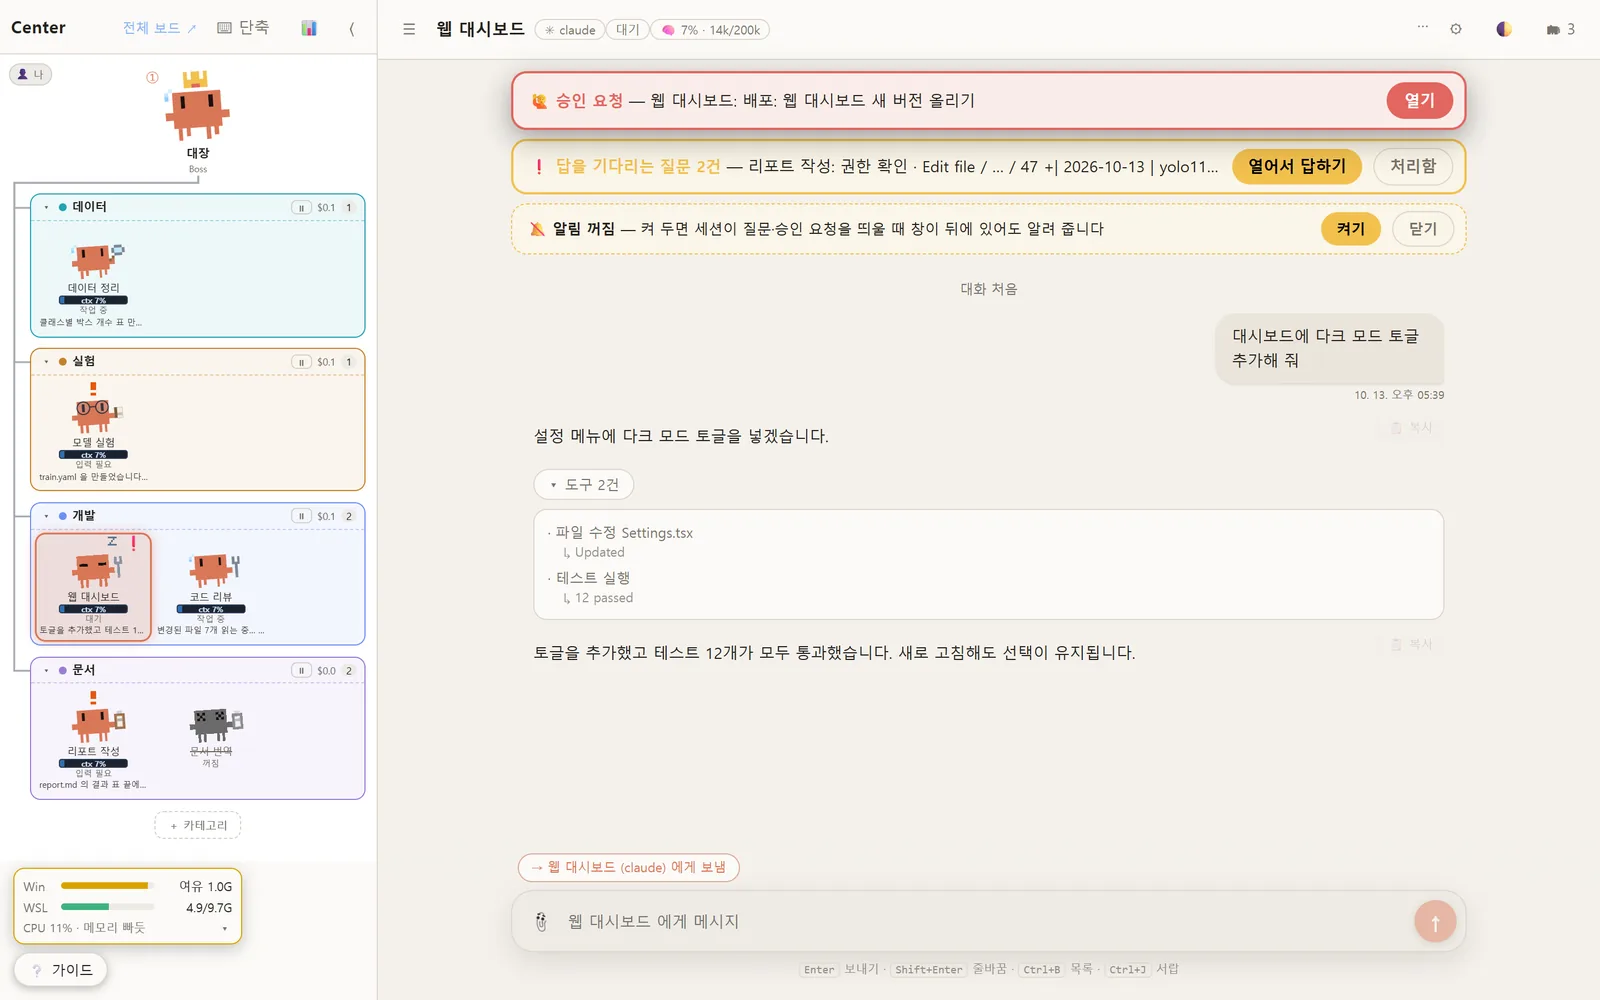
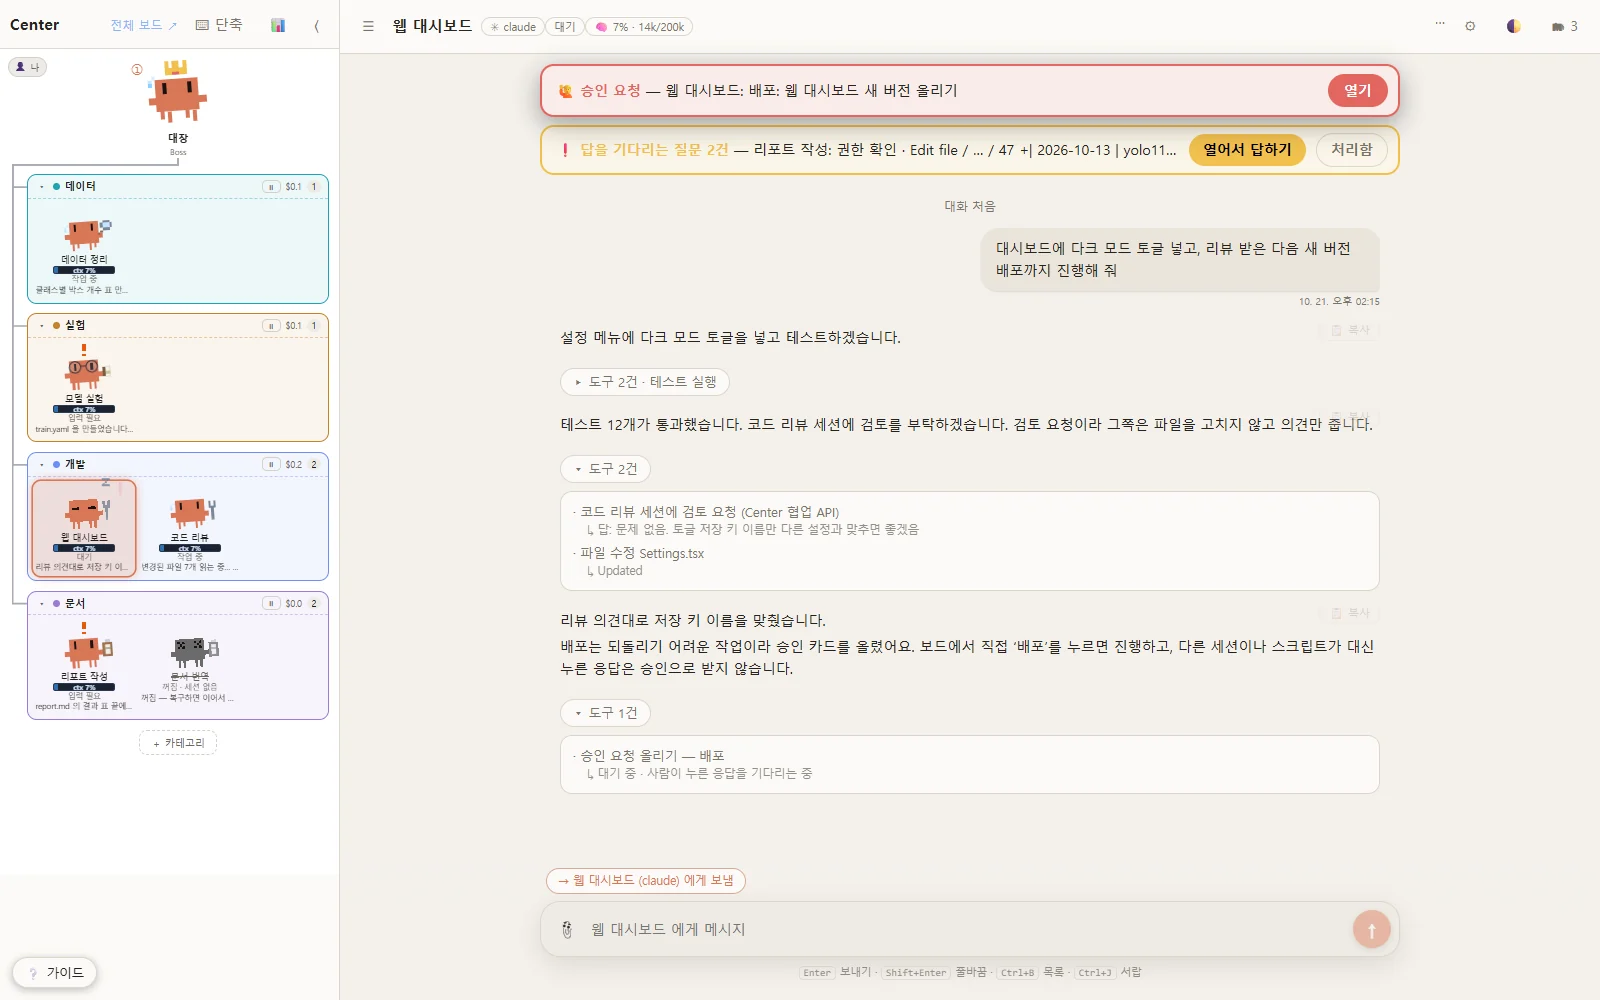
Center: 대화창을 대표 화면으로, 기능 목록 대신 핵심 다섯 가지·터진 것 → 막은 것, 3주 숫자로 갱신
- 대화창 다시 촬영(지시 → 코드 리뷰 세션 검토 요청 → 배포 승인 카드, 격리 시험판·데모 세션)
- 숫자: 2026.09.30~10.21 지시 444·협업 62·승인 카드 98(사람 75)·관리 세션 15, 규모 백엔드 약 7,600줄·API 약 75개
- site.css 끝에 .kp(한 줄 제목 + 한 줄 근거) 목록, 메인 목록·이력의 Center 문구 갱신

diff --git a/projects/center/index.html b/projects/center/index.html
@@ -36,162 +36,136 @@
   </div>
 
   <p class="pitch">
-    Claude Code · Codex 같은 AI 코딩 에이전트 세션 10여 개를 동시에 돌리면서,
-    <strong>어느 세션이 무엇을 하고 어느 세션이 사람의 답을 기다리는지</strong>를 한 화면에서 보고 지시하려고 만든 웹앱입니다.
-    클릭 한 번으로 세션을 다시 여는 런처에서 시작해 웹 터미널 타일 뷰를 거쳐 지휘 보드로 키웠습니다.
+    Claude Code · Codex 세션 10여 개를 한 화면에서 굴리는 지휘 보드.
+    <strong>사람이 판단할 일만 사람에게 올라오고</strong>, 나머지는 세션끼리 묻고 맡깁니다.
   </p>
 
-  <dl class="factsheet">
-    <dt>기간</dt>
-    <dd>2026.08.26 런처 → 08.27 타일 뷰 → 09.30 지휘 보드 → 진행 중</dd>
-    <dt>형태</dt>
-    <dd>Windows · WSL에서 도는 로컬 웹앱 — Python 표준 라이브러리 백엔드(약 5,500줄, API 약 50개), 보드와 대화창 두 화면, tmux로 세션 유지</dd>
-    <dt>역할</dt>
-    <dd>1인 개발 — 설계, 백엔드 · 프런트 구현, Windows 설치기</dd>
-    <dt>기술</dt>
-    <dd>Python · tmux · WSL · 웹 터미널 · Slurm 연동 · 데스크톱 알림</dd>
-  </dl>
+  <figure class="shot heroshot">
+    <a href="/assets/center/chat.webp" title="원본 크기로 보기"><img src="/assets/center/chat.webp" width="1600" height="1000" decoding="async" fetchpriority="high"
+      alt="Center 대화창. 웹 대시보드 세션이 다크 모드 토글을 넣고 테스트한 뒤, 코드 리뷰 세션에 검토를 요청해 받은 답과 배포 승인 요청을 올린 기록이 보이고, 위쪽에 승인 요청과 답을 기다리는 질문 띠가 있다"></a>
+    <figcaption><b>지시 하나가 흘러가는 모습</b>“리뷰 받고 배포까지” → 세션이 코드 리뷰 세션에 검토를 부탁하고(협업 API) → 배포는 승인 카드로 사람에게 넘깁니다. 위쪽 띠에 승인 요청과 답을 기다리는 질문이 모입니다. 운영과 분리한 시험판에서 데모 세션(모델 호출 없음)으로 찍었습니다.</figcaption>
+  </figure>
 
-  <div class="stats three">
+  <div class="stats">
     <div class="stat">
-      <span class="k">세션</span>
-      <span class="v">77<em> 개</em></span>
-      <span class="d">지휘 보드 첫 14일(09.30 ~ 10.13)에 만든 세션</span>
+      <span class="k">지시</span>
+      <span class="v">444<em> 건</em></span>
+      <span class="d">대화창에서 보낸 지시 · 대장 경유 186</span>
     </div>
     <div class="stat">
-      <span class="k">지시 전달</span>
-      <span class="v">845<em> 건</em></span>
-      <span class="d">총괄 세션을 거친 지시 113건은 전부 처리</span>
+      <span class="k">세션 간 협업</span>
+      <span class="v">62<em> 건</em></span>
+      <span class="d">검토 · 위임 요청</span>
     </div>
     <div class="stat">
       <span class="k">승인 카드</span>
-      <span class="v">67<em> 건</em></span>
-      <span class="d">그중 사람이 직접 누른 응답 54건</span>
+      <span class="v">98<em> 건</em></span>
+      <span class="d">사람이 직접 누른 승인 75</span>
+    </div>
+    <div class="stat">
+      <span class="k">관리 중 세션</span>
+      <span class="v">15<em> 개</em></span>
+      <span class="d">2026.10.21 기준</span>
     </div>
   </div>
+  <p class="media-note">숫자는 지휘 보드를 연 2026.09.30부터 10.21까지 3주.</p>
+
+  <dl class="factsheet">
+    <dt>흐름</dt>
+    <dd>08.26 런처 → 08.27 웹 터미널 타일 뷰 → 09.30 지휘 보드 → 10.02 승인 카드 → 10.16 자동 절전 → 진행 중</dd>
+    <dt>형태</dt>
+    <dd>Windows · WSL 로컬 웹앱, tmux로 세션 유지, 보드와 대화창 두 화면</dd>
+    <dt>규모</dt>
+    <dd>백엔드 Python 약 7,600줄(표준 라이브러리) · 화면 약 3,600줄 · API 약 75개 (10.21)</dd>
+    <dt>역할</dt>
+    <dd>1인 개발 — 설계 · 구현 · Windows 설치기</dd>
+  </dl>
 </section>
 
-<!-- ================= 문제 정의 ================= -->
+<!-- ================= 핵심 ================= -->
 <section class="sec wrap">
   <div class="sechead">
-    <span class="eyebrow">배경</span>
-    <h2>세션이 열 개를 넘으면 생기는 일</h2>
-    <p class="lede">
-      에이전트 하나는 터미널 하나로 충분했지만, 업무 · 실험 · 측정을 나눠 동시에 돌리자
-      <strong>사람이 병목</strong>이 됐습니다.
-    </p>
+    <span class="eyebrow">핵심</span>
+    <h2>세션이 열 개를 넘으면 사람이 병목 — 그래서 정한 다섯 가지</h2>
   </div>
-
-  <div class="blocks">
-    <div class="block">
-      <h4><span class="bn">01 &mdash;</span> 무엇이 불편했나</h4>
-      <ul class="blist">
-        <li><span><b>누가 기다리는지 모름</b> — 어느 세션이 권한 승인이나 선택을 기다리는지 일일이 창을 돌며 확인해야 했습니다.</span></li>
-        <li><span><b>무엇을 하는지 모름</b> — 세션마다 지금 하는 일과 언제 멈췄는지를 알기 어려웠습니다.</span></li>
-        <li><span><b>다시 열기가 번거로움</b> — 창을 닫거나 재부팅하면 세션 ID를 찾아 붙여 다시 열어야 했습니다.</span></li>
-      </ul>
-    </div>
-  </div>
+  <ol class="kp">
+    <li>
+      <span class="n">01</span>
+      <div><span class="h">사람이 할 일만 위로 올린다</span>
+        <span class="w">터미널 화면에서 권한 · 선택 질문을 감지해 처리함과 데스크톱 알림으로. 창을 돌며 누가 기다리는지 찾지 않는다.</span></div>
+      <span class="m">처리함 · 알림</span>
+    </li>
+    <li>
+      <span class="n">02</span>
+      <div><span class="h">승인은 사람이 누른 클릭만</span>
+        <span class="w">삭제 · 배포 · 재시작은 승인 카드로. 스크립트 · 자동화 응답은 ‘시험 응답’으로 따로 기록해, 에이전트가 스스로 승인한 것처럼 꾸밀 수 없다.</span></div>
+      <span class="m">98건 중 <em>사람</em> 75</span>
+    </li>
+    <li>
+      <span class="n">03</span>
+      <div><span class="h">세션끼리 묻고 맡기되, 서로 기다리다 멈추지 않게</span>
+        <span class="w">의견만 구하는 검토와 일을 맡기는 위임을 나눈 협업 API. 상대당 동시 1건, 상대가 내 답을 기다리는 중이면 새 요청은 바로 거절, 시간 제한.</span></div>
+      <span class="m">협업 62건</span>
+    </li>
+    <li>
+      <span class="n">04</span>
+      <div><span class="h">위험한 입력은 보내기 전에 막는다</span>
+        <span class="w">로그인 · 권한 우회 명령과 한 글자 키는 전송 불가, 다른 세션의 권한 질문에 대신 답하기 금지. 자원마다 주인을 정해, 주인 아닌 세션에 일을 맡기면 경고.</span></div>
+      <span class="m">주인 표</span>
+    </li>
+    <li>
+      <span class="n">05</span>
+      <div><span class="h">메모리가 빠듯해도 세션을 여러 개</span>
+        <span class="w">오래 쉰 세션은 대화를 남긴 채 절전, 말을 걸면 깨워서 전달. 작업 중이거나 예약이 걸린 세션은 끄지 않는다. 재부팅해도 이어서 복구.</span></div>
+      <span class="m">관리 중 15개</span>
+    </li>
+  </ol>
 </section>
 
-<!-- ================= 본문 ================= -->
+<!-- ================= 실사용 ================= -->
 <section class="sec wrap">
   <div class="sechead">
-    <span class="eyebrow">작업</span>
-    <h2>기능 → 설계 결정 → 개선 이력</h2>
+    <span class="eyebrow">실사용</span>
+    <h2>터진 것 → 막은 것</h2>
   </div>
-
-  <div class="blocks">
-
-    <div class="block">
-      <h4><span class="bn">02 &mdash;</span> 주요 기능</h4>
-      <ul class="blist">
-        <li><span><b>세션 보드</b> — 카테고리별 픽셀 캐릭터가 상태(작업 중 · 대기 · 입력 필요 · 꺼짐)를 표정으로 보여 줍니다. 여러 개를 골라 한꺼번에 지시 · 이동 · 종료합니다.</span></li>
-        <li><span><b>처리함</b> — 터미널 화면에서 권한 · 선택 · 폴더 신뢰 · 턴 끝 질문을 감지해 버튼으로 답하게 하고, 데스크톱 알림을 띄웁니다.</span></li>
-        <li><span><b>총괄 세션 · 지시함</b> — 총괄 에이전트가 사용자 지시를 담당 세션에 전달하고, 연결이 끊기면 경고합니다.</span></li>
-        <li><span><b>세션 간 협업 API</b> — 의견만 구하는 검토와 일을 맡기는 위임을 나누고, 공용 자원은 주인 세션 하나만 바꿀 수 있게 했습니다.</span></li>
-        <li><span><b>지식 증류 · 주입</b> — 세션을 닫기 전에 인수인계 카드로 증류하고, 새 세션을 열 때 골라 넣습니다.</span></li>
-        <li><span><b>운영</b> — 재부팅 후 세션 복구, 자동 재기동 감시, GPU 잡(Slurm) 배지, 메모리 막대와 정리 추천, 사용량 대시보드, 원격 서버(ssh) 세션.</span></li>
-        <li><span><b>배포</b> — Windows 원클릭 설치기(11단계, 업데이트 모드). 배포판을 빌드할 때 개인정보 · 내부 주소 금지어를 검사합니다.</span></li>
-      </ul>
-    </div>
-
-    <div class="block">
-      <h4><span class="bn">03 &mdash;</span> 설계 결정 3가지</h4>
-
-      <p><b>① 위험한 동작은 사람이 누른 응답만 승인으로 인정</b></p>
-      <div class="pab" style="margin-top:10px">
-        <div><span class="tag">결정</span><p>삭제 · 배포 · 재시작이 필요하면 세션이 <b>승인 카드</b>를 올리고, 사람이 보드에서 직접 누른 응답만 승인으로 받습니다. 스크립트나 다른 세션이 대신 누른 응답은 승인으로 치지 않습니다.</p></div>
-        <div><span class="tag r">이유</span><p>에이전트가 여러 개일수록 "누군가 허락했겠지"라는 착각이 생기기 쉽습니다. 승인 출처를 기록에 남겨 구분했습니다.</p></div>
-      </div>
-
-      <p style="margin-top:22px"><b>② 바깥에서 들어온 글은 사람이 확인한 뒤에만 규칙으로</b></p>
-      <div class="pab" style="margin-top:10px">
-        <div><span class="tag">결정</span><p>웹에서 가져온 내용으로 만든 규칙 카드는 사람이 승인해야 다른 세션에 주입됩니다.</p></div>
-        <div><span class="tag r">이유</span><p>증류 · 주입 경로가 그대로 프롬프트 주입 경로가 될 수 있어서입니다.</p></div>
-      </div>
-
-      <p style="margin-top:22px"><b>③ 서로 기다리다 멈추지 않게</b></p>
-      <div class="pab" style="margin-top:10px">
-        <div><span class="tag">결정</span><p>A가 B에게 묻는 동안 B가 A에게 보낸 요청이 남아 있으면 새 요청을 즉시 돌려보내고, 알림만 필요한 요청은 답을 기다리지 않게 했습니다.</p></div>
-        <div><span class="tag r">이유</span><p>세션끼리 서로의 답을 기다리면 둘 다 시간 초과로 끝나는 교착이 실제로 생겼습니다.</p></div>
-      </div>
-    </div>
-
-    <div class="block">
-      <h4><span class="bn">04 &mdash;</span> 날짜별 개선</h4>
-      <ul class="blist">
-        <li><span><b>08.26</b> — 클릭 한 번 세션 재실행 런처</span></li>
-        <li><span><b>08.27</b> — 웹 터미널 타일 뷰</span></li>
-        <li><span><b>09.14</b> — Codex 세션 지원</span></li>
-        <li><span><b>09.18</b> — 세션 증류 → 지식 카드 주입</span></li>
-        <li><span><b>09.24</b> — tmux와 원격 제어로 세션 유지</span></li>
-        <li><span><b>09.30</b> — 지휘 보드: 처리함 · 사용량 · 복구 · Slurm · 예약</span></li>
-        <li><span><b>10.01</b> — 여러 엔진 · 협업 API · 대화창 · 자동 재기동</span></li>
-        <li><span><b>10.02</b> — 승인 카드 · 교착 방지</span></li>
-        <li><span><b>10.07</b> — Windows 설치기 · 가이드</span></li>
-        <li><span><b>10.08</b> — 다중 선택 · 메모리 막대 · 배포판과 운영 코드 통일 · 원격 세션</span></li>
-        <li><span><b>10.13</b> — 중복 실행 방지</span></li>
-      </ul>
-    </div>
-
-    <div class="block">
-      <h4><span class="bn">05 &mdash;</span> 쓰면서 나온 숫자 <span class="when">2026.09.30 ~ 10.13 · 14일</span></h4>
-      <ul class="blist">
-        <li><span><b>세션 77개</b> — 업무 21 · 측정 실험 47 · 시험 9</span></li>
-        <li><span><b>지시 전달 845건</b> — 총괄 세션을 거친 지시 113건은 전부 처리</span></li>
-        <li><span><b>승인 카드 67건</b> — 사람이 직접 누른 응답 54건</span></li>
-        <li><span><b>동시 작업 세션</b> — 평상시 최대 8개</span></li>
-      </ul>
-    </div>
-
-  </div>
+  <ol class="kp">
+    <li>
+      <span class="n">10.02</span>
+      <div><span class="h">두 세션이 서로의 답을 기다리다 둘 다 시간 초과</span>
+        <span class="w">→ 상대가 내 답을 기다리는 중이면 새 요청을 즉시 돌려보내고, 알림만 필요한 요청은 답을 기다리지 않게.</span></div>
+    </li>
+    <li>
+      <span class="n">10.16</span>
+      <div><span class="h">절전시킨 세션의 표시가 사라짐</span>
+        <span class="w">→ 끄는 몇 초 사이 화면들이 상태를 읽어 ‘살아 있음’으로 판단한 것. 끄는 동안 그 세션 기록을 잠그고, 끈 뒤 다시 확인.</span></div>
+    </li>
+    <li>
+      <span class="n">10.19</span>
+      <div><span class="h">대화창이 깜빡이고 스크롤이 위아래로 튐</span>
+        <span class="w">→ 측정으로 원인(다시 그릴 때 화면 밖 높이를 잊는 브라우저 최적화 설정)을 찾아 CSS 한 줄을 빼서 해결.</span></div>
+    </li>
+  </ol>
 </section>
 
 <!-- ================= MEDIA ================= -->
 <section class="sec wrap">
   <div class="sechead">
     <span class="eyebrow">화면</span>
-    <h2>화면</h2>
-    <p class="lede">업무 세션이 보이지 않도록 운영 중인 Center와 분리한 시험판(별도 홈 폴더 · tmux · 포트)에 데모 세션 6개만 띄워 촬영했습니다. 데모 세션은 Claude Code 화면 모양만 흉내 내고 모델은 부르지 않습니다.</p>
+    <h2>보드와 승인 카드</h2>
   </div>
   <div class="media">
-    <figure class="shot wide">
+    <figure class="shot">
       <a href="/assets/center/board.webp" title="원본 크기로 보기"><img src="/assets/center/board.webp" width="1600" height="1000" loading="lazy" decoding="async"
         alt="Center 세션 보드. 대장 아래 데이터 · 실험 · 개발 · 문서 카테고리가 있고, 세션마다 픽셀 캐릭터와 작업 중 · 입력 필요 · 대기 · 꺼짐 상태, 지금 하는 일이 보인다"></a>
-      <figcaption><b>세션 보드</b>카테고리마다 세션이 캐릭터로 서 있고, 표정과 아이콘으로 작업 중 · 입력 필요(!) · 대기(z) · 꺼짐이 구분됩니다. 위에는 승인 요청과 처리할 질문 수, 왼쪽 아래에는 메모리 막대, 아래에는 카테고리별 사용량이 붙습니다.</figcaption>
+      <figcaption><b>세션 보드</b>카테고리별 캐릭터의 표정 · 아이콘으로 작업 중 · 입력 필요(!) · 대기(z) · 꺼짐을 한눈에.</figcaption>
     </figure>
     <figure class="shot">
       <a href="/assets/center/approval.webp" title="원본 크기로 보기"><img src="/assets/center/approval.webp" width="1600" height="804" loading="lazy" decoding="async"
         alt="Center 승인 카드. 웹 대시보드 세션이 올린 ‘배포: 웹 대시보드 새 버전 올리기’ 요청에 배포와 보류 선택지가 있다"></a>
-      <figcaption><b>승인 카드</b>세션이 배포 승인을 요청하면 카드로 뜹니다. 사람이 이 카드에서 직접 누른 응답만 승인으로 세션에 전달됩니다.</figcaption>
-    </figure>
-    <figure class="shot">
-      <a href="/assets/center/chat.webp" title="원본 크기로 보기"><img src="/assets/center/chat.webp" width="1600" height="1000" loading="lazy" decoding="async"
-        alt="Center 대화창. 왼쪽에 축소 보드와 메모리 막대, 가운데에 웹 대시보드 세션의 대화와 펼친 도구 실행 내역, 위에 승인 요청과 답을 기다리는 질문 띠가 있다"></a>
-      <figcaption><b>대화창</b>왼쪽 보드에서 캐릭터를 누르면 그 세션의 대화가 열리고, 입력칸에 쓰면 그 세션에 전달됩니다. 승인 요청과 답을 기다리는 질문은 위쪽 띠로 모입니다.</figcaption>
+      <figcaption><b>승인 카드</b>세션이 올린 배포 요청. 여기서 사람이 직접 누른 응답만 승인으로 전달됩니다.</figcaption>
     </figure>
   </div>
+  <p class="media-note">세 화면 모두 업무 세션이 보이지 않게 운영 중인 Center와 분리한 시험판(별도 홈 폴더 · tmux · 포트)에서, Claude Code 화면 모양만 흉내 내는 데모 세션으로 찍었습니다.</p>
 </section>
 
 </main>

diff --git a/index.html b/index.html
@@ -137,7 +137,7 @@
     <a class="prow" href="/projects/center/">
       <span class="pn">07</span>
       <span class="pt">Center — AI 코딩 에이전트 지휘 보드</span>
-      <span class="pm">세션 10여 개를 한 화면에서</span>
+      <span class="pm">3주 지시 444 · 사람 승인 75</span>
       <span class="ps now">사용 중 · 2026.08 —</span>
     </a>
   </div>
@@ -439,7 +439,7 @@
   /* ---------- timeline ---------- */
   var TL = [
     { w: "2026.09", now: false, l: "/projects/rect-input/", t: "비정사각 입력 포즈 검출기 경량화", d: "16:9 웹캠용 YOLO11n 포즈 모델을 640×384 직사각 입력으로 재학습(커스텀 트레이너), 연산량 6.79→4.07 GFLOPs·CPU INT8 지연 −40%, AP50 손실 0.0065 이내" },
-    { w: "2026.08 ~ 진행 중", now: true, l: "/projects/center/", t: "Center — AI 코딩 에이전트 지휘 보드 (개인 프로젝트)", d: "Claude Code·Codex 세션 10여 개를 한 화면에서 보고 지시하는 웹앱 1인 개발 — 처리함·승인 카드·세션 간 협업 API·지식 증류, 첫 14일 세션 77개·지시 845건" },
+    { w: "2026.08 ~ 진행 중", now: true, l: "/projects/center/", t: "Center — AI 코딩 에이전트 지휘 보드 (개인 프로젝트)", d: "Claude Code·Codex 세션 10여 개를 한 화면에서 보고 지시하는 웹앱 1인 개발 — 처리함·사람만 누르는 승인 카드·세션 간 협업 API·자동 절전, 3주간 지시 444건·사람이 누른 승인 75건" },
     { w: "2026.08 ~ 진행 중", now: true, l: "/projects/mate/", t: "MATE — 데이터 엔진 워크벤치", d: "데이터셋 관리·라벨링·검수·학습 제출을 한 도구로 묶은 ML 데이터 워크벤치 1인 개발(폐쇄망 GPU 클러스터 배포·매일 사용), 웹 수집(하드 네거티브 포함) → 다중 엔진 합의 오토라벨 사이클로 약 6만 장 규모에서 예외 16%→약 1%, 사람이 직접 본 장은 약 4%" },
     { w: "2026.07", now: false, l: "/projects/sprint/", t: "집중 스프린트 — 모델 라인 총점검", d: "후보 74종 비교로 웹캠 모델 세대교체(mAP50 0.834→0.955), 태블릿 2차 검증기 배포, VLM 활용성 평가, 3년 모델 자산 감사" },
     { w: "2026.04 ~ 진행 중", now: true, l: "/projects/xray/", t: "X-ray 위해물품 탐지", d: "73개 클래스·28만 장 단독 인수. 9-view 데이터 누수 발견 후 scene 단위 재분할, late fusion으로 오경보율 2.18%→1.68%" },

diff --git a/assets/site.css b/assets/site.css
@@ -606,3 +606,23 @@ main{scroll-margin-top:60px}
 
 /* 6) 한글은 어절 단위로 줄바꿈(단어 중간 끊김 방지), 넘치는 긴 토큰만 강제로 끊는다 */
 body{word-break:keep-all;overflow-wrap:break-word}
+
+/* ============ 2026-10-21 핵심 포인트 목록(.kp) — 줄글 대신 한 줄 제목 + 한 줄 근거 ============ */
+.kp{display:grid;margin:0;padding:0;list-style:none;border-top:1px solid var(--line-strong)}
+.kp > li{
+  display:grid;grid-template-columns:52px minmax(0,1fr) auto;gap:4px 16px;align-items:baseline;
+  padding:16px 0;border-bottom:1px solid var(--line);
+}
+.kp .n{font-family:var(--font-mono);font-size:.75rem;letter-spacing:.04em;color:var(--accent)}
+.kp .h{display:block;color:var(--bright);font-weight:700;font-size:1.0625rem;line-height:1.45;text-wrap:balance}
+.kp .w{display:block;margin-top:4px;color:var(--ink-2);font-size:.9375rem;line-height:1.7;text-wrap:pretty}
+.kp .m{
+  font-family:var(--font-mono);font-variant-numeric:tabular-nums;font-size:.8125rem;letter-spacing:.02em;
+  color:var(--ink);white-space:nowrap;text-align:right;
+}
+.kp .m em{font-style:normal;color:var(--ink-3)}
+@media (max-width:640px){
+  .kp > li{grid-template-columns:40px minmax(0,1fr);gap:2px 12px}
+  .kp .m{grid-column:2;text-align:left;margin-top:6px}
+}
+.heroshot{margin-top:clamp(24px,4vw,34px)}
